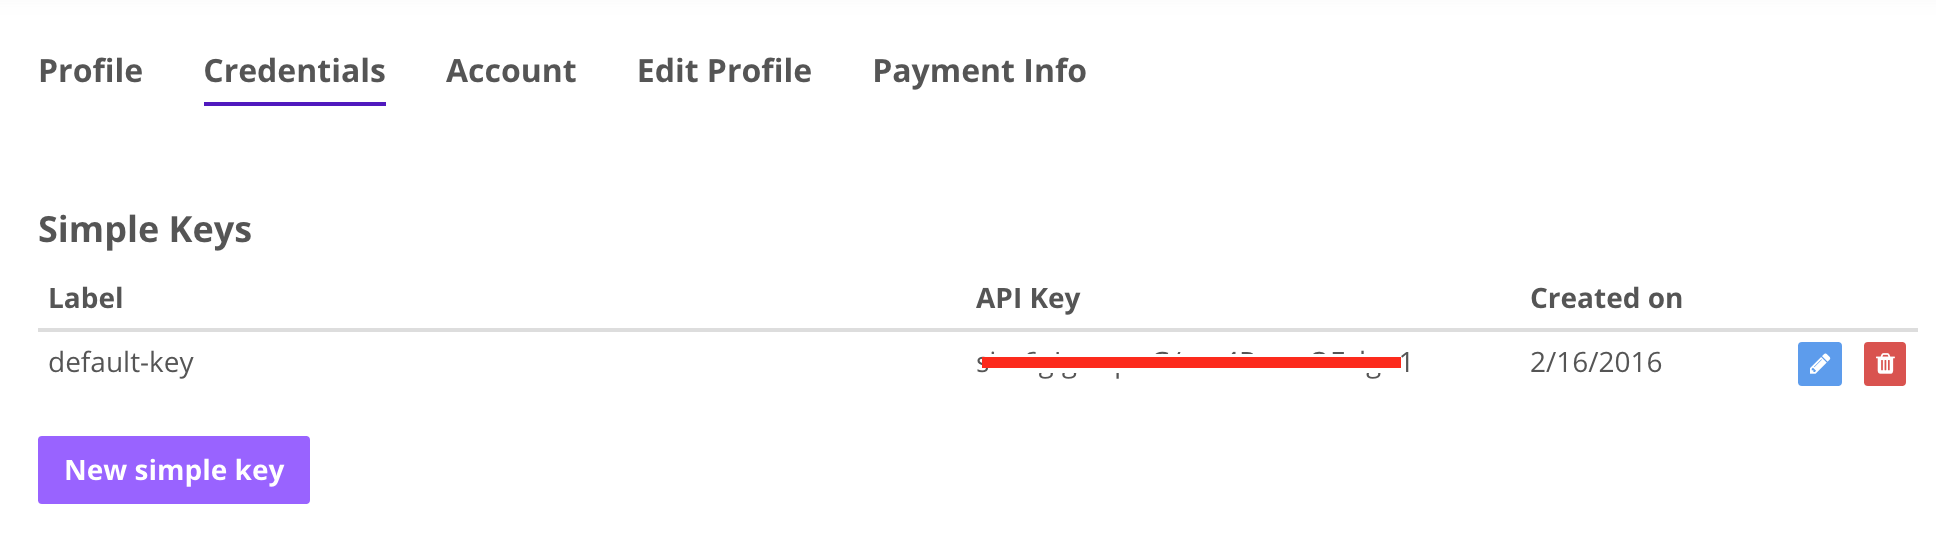
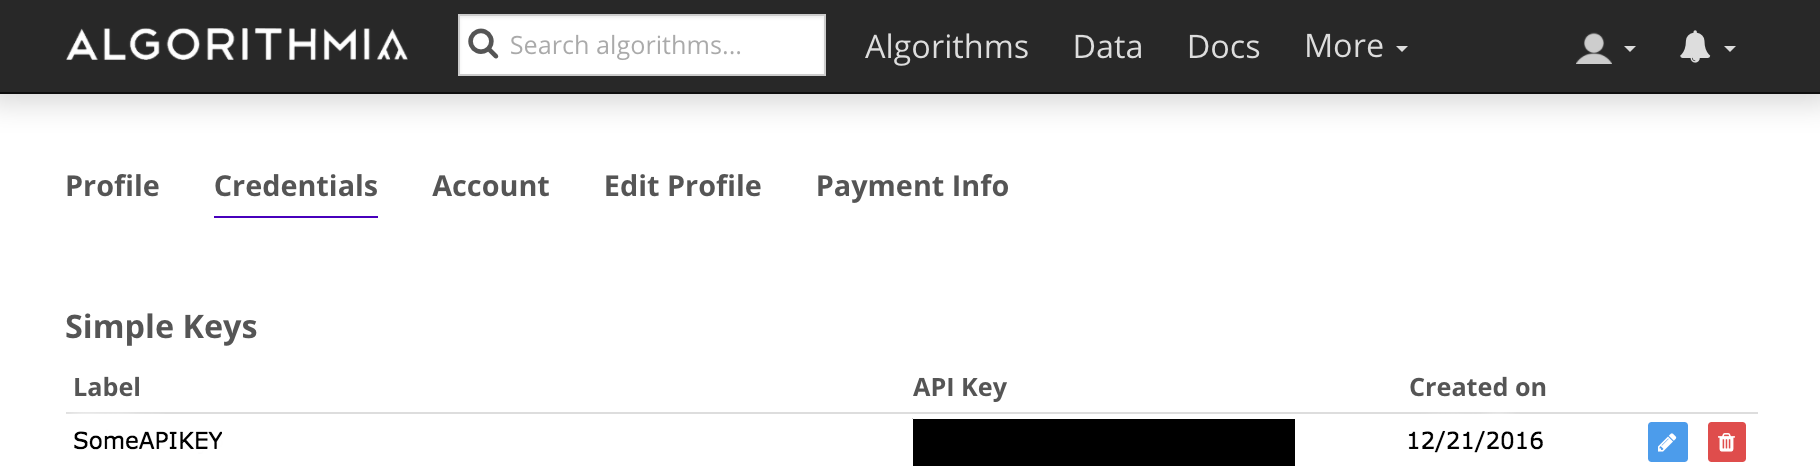
changed screenshots for #71

diff --git a/_pages/basics/your-profile.md b/_pages/basics/your-profile.md
@@ -1,16 +1,16 @@
 ---
 layout: article
-title:  "Your Profile"
-excerpt: "What's going on in your profile? Click here to find out."
+title:  "Your User Profile"
+excerpt: "Information about your user profile."
 categories: basics
 tags: [alg-dev-getting-started, app-dev-getting-started]
 show_related: true
-author: liz_rush
+author: steph_kim
 image:
   teaser: /icons/algo.svg
 ---
 
-Understanding your profile on the Algorithmia platform will help you find all the information you need, such as your credentials and account credits to your recent API calls.
+This guide will usher you through your user profile and cover how to find your API key, check your account credits and look at your recent API calls.
 
 {% include toc.html %}
 
